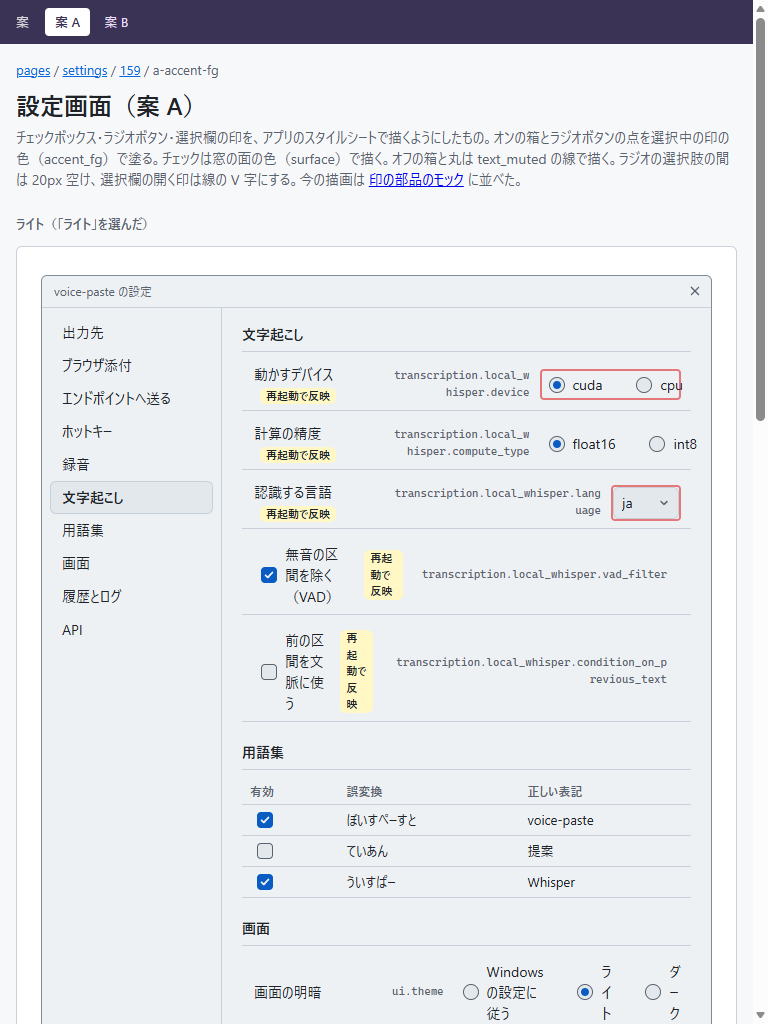
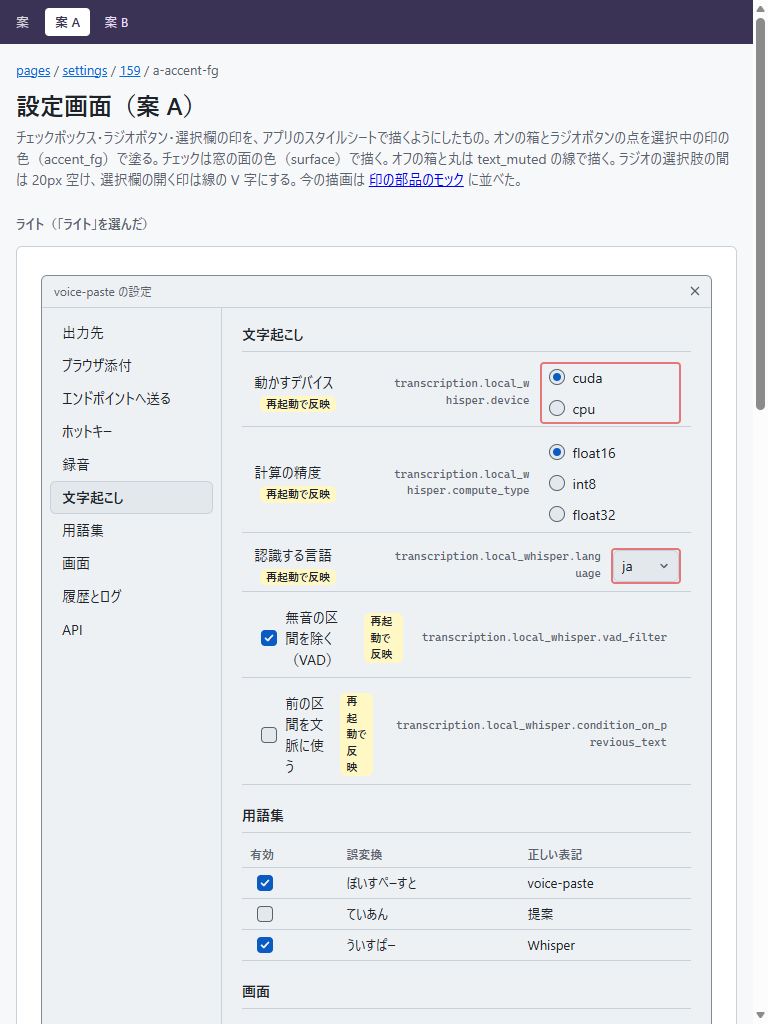
design: ラジオの選択肢の名前を 1 文字ずつ折らないように直す

Changed region(s): [[0.3125, 0.3438, 0.9062, 1.0], [0.625, 0.75, 0.7812, 1.0], [0.75, 0.9375, 0.8125, 1.0]]

diff --git a/dev/mock/refs/159/assets/style.css b/dev/mock/refs/159/assets/style.css
@@ -95,10 +95,9 @@
   gap: 4px 20px;
 }
 
-/* 欄の行が横に並ぶ幅: 選択肢を折り返さず 1 行に並べる（Qt の横並びと同じ） */
-@media (min-width: 641px) {
-  /* ラジオの並び: 折り返さない */
-  :is(.ind-a, .ind-b) .row .radios { flex-wrap: nowrap; }
+/* ラジオの選択肢: 名前を 1 文字ずつ折らず、選択肢の単位か名前の中の空白で折り返す */
+:is(.ind-a, .ind-b) .radios label {
+  word-break: keep-all;
 }
 
 /* 選択欄の枠: 開く印を自前で描くため、右に印の幅を空ける */
